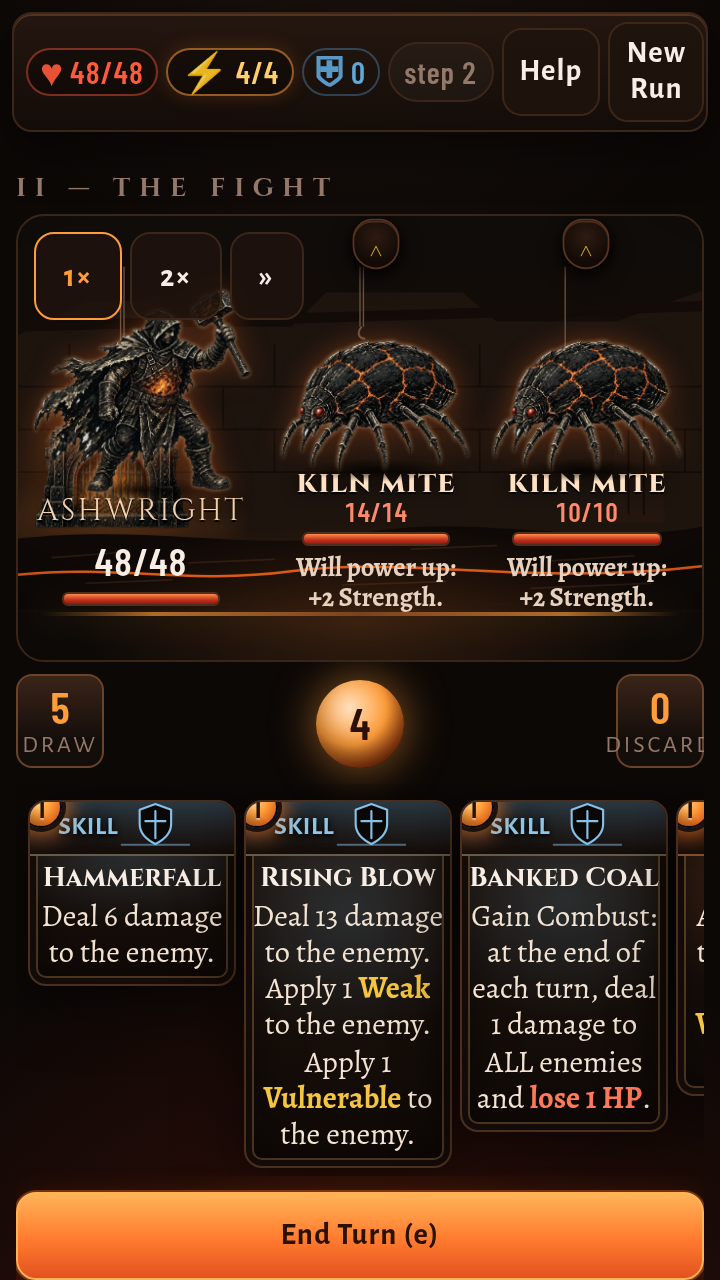
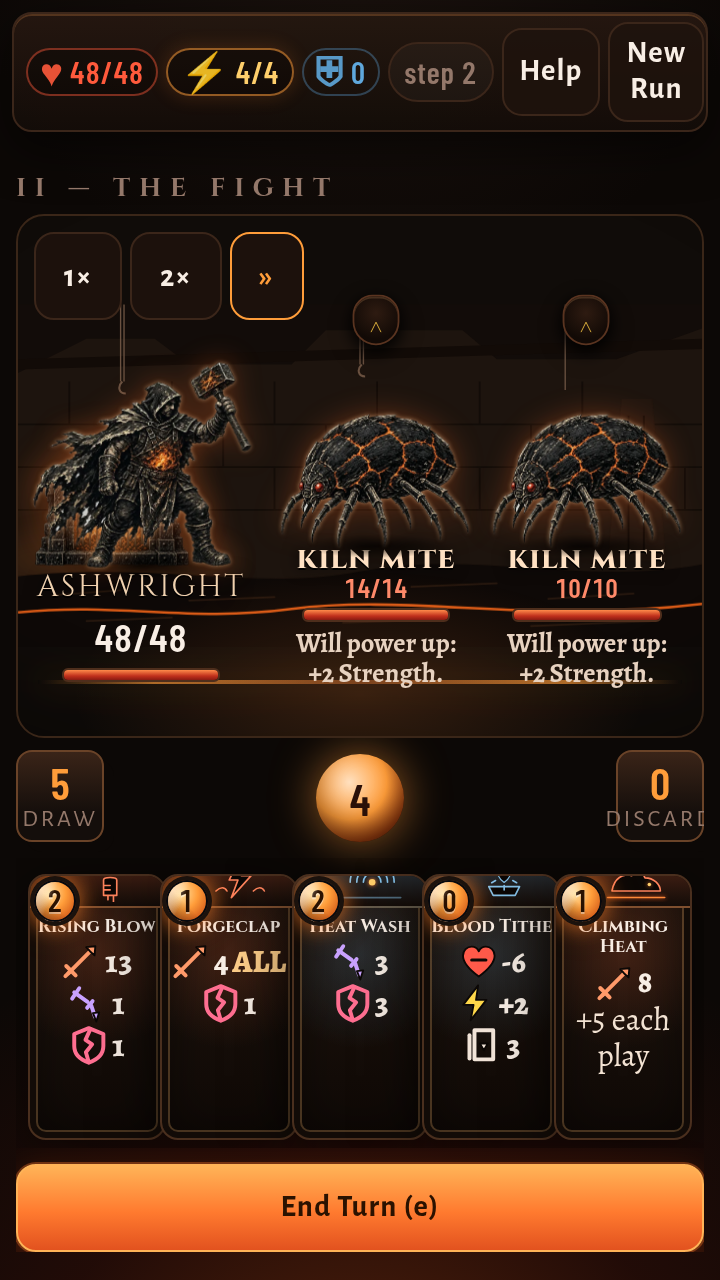
PR shots for #53 (glyph card face)

diff --git a/pr29/card-glyph-mapping.md b/pr29/card-glyph-mapping.md
@@ -1,0 +1,54 @@
+# #53 card face: glyph mapping (all 44 cards)
+
+What each glyph stands for: `damage` = sword, `block` = shield, `weak` = Weak (snapped blade), `vulnerable` = Vuln (cracked shield), `strength` = Strength (fist), `metallicize` = Metallicize (riveted plate), `draw` = card, `energy` = bolt, `hp` = heart, `discard` = card-away, `exhaust` = flame. `ALL` means every enemy is hit. A plain-text face line is a unique mechanic.
+
+Line counts are measured in a real browser by scripts/dev/viewport-check.mjs, at 360x640 and 320x568, both with 130% text. The limit is 3 lines; 4 lines at 320 is a fallback only.
+
+| id | name | full sentence (aria-label, preview) | face lines | lines @360x640·130% | lines @320x568·130% |
+|---|---|---|---|---|---|
+| strike | Hammerfall | Deal 6 damage to the enemy. | [damage] 6 | 1 | 1 |
+| defend | Quench | Gain 5 Block. | [block] 5 | 1 | 1 |
+| bash | Anvil Blow | Deal 8 damage to the enemy. Apply 2 Vulnerable to the enemy — it takes 50% more damage from attacks. | [damage] 8 / [vulnerable] 2 | 2 | 2 |
+| gust | Bellows Gust | Deal 4 damage to ALL enemies. | [damage] 4 ALL | 1 | 1 |
+| fan_flames | Fan the Flames | Gain 1 Energy. Exhaust this card for the rest of the fight. | [energy] +1 / [exhaust]  | 2 | 2 |
+| anger | Spark | Deal 5 damage to the enemy. | [damage] 5 | 1 | 1 |
+| cleave | Arc Cut | Deal 4 damage to ALL enemies. | [damage] 4 ALL | 1 | 1 |
+| clothesline | Collar Check | Deal 12 damage to the enemy. Apply 2 Weak to the enemy — its attacks deal 25% less damage. | [damage] 12 / [weak] 2 | 2 | 2 |
+| headbutt | Brow Strike | Deal 9 damage to the enemy. | [damage] 9 | 1 | 1 |
+| ironwave | Slag Surge | Gain 5 Block. Deal 5 damage to the enemy. | [block] 5 / [damage] 5 | 2 | 2 |
+| pommel | Haft Jab | Deal 9 damage to the enemy. Draw 1 card. | [damage] 9 / [draw] 1 | 2 | 2 |
+| sword_boomerang | Returning Brand | Deal 3 damage to ALL enemies. | [damage] 3 ALL | 1 | 1 |
+| thunderclap | Forgeclap | Deal 4 damage to ALL enemies. Apply 1 Vulnerable to the enemy — it takes 50% more damage from attacks. | [damage] 4 ALL / [vulnerable] 1 | 2 | 2 |
+| twin_strike | Twin Hammers | Deal 5 damage to the enemy 2 times. | [damage] 5×2 | 1 | 1 |
+| wild_strike | Untempered | Deal 12 damage to the enemy. | [damage] 12 | 1 | 1 |
+| flex | Bellows | Gain 2 Strength — your attacks deal 2 more damage. | [strength] 2 | 1 | 1 |
+| shrug | Cast Aside | Gain 8 Block. Draw 1 card. | [block] 8 / [draw] 1 | 2 | 2 |
+| true_grit | True Temper | Gain 7 Block. | [block] 7 | 1 | 1 |
+| warcry | Kiln Cry | Draw 1 card. Discard 1 card at random. | [draw] 1 / [discard] 1 | 2 | 2 |
+| armaments | Fit the Plate | Gain 5 Block. | [block] 5 | 1 | 1 |
+| havoc | Vent | Draw 1 card. Gain 1 Energy. | [draw] 1 / [energy] +1 | 2 | 2 |
+| battle_trance | Heat Trance | Draw 3 cards. | [draw] 3 | 1 | 1 |
+| bloodletting | Vein Tap | Lose 3 HP. Gain 2 Energy. | [hp] -3 / [energy] +2 | 2 | 2 |
+| carnage | Sunder | Deal 20 damage to the enemy. | [damage] 20 | 1 | 1 |
+| combust | Banked Coal | Gain Combust: at the end of each turn, deal 1 damage to ALL enemies and lose 1 HP. | [damage] 1 ALL / [hp] -1 / "each turn" | 3 | 4 |
+| dark_embrace | Ash Embrace | Gain Dark Embrace: whenever a card is exhausted, draw 1 card. | [exhaust] → / [draw] +1 | 2 | 2 |
+| dropkick | Heel Drop | Deal 5 damage to the enemy. Gain 1 Energy. | [damage] 5 / [energy] +1 | 2 | 2 |
+| entrench | Brace | Double your current Block. Does nothing if you have no Block. | [block] ×2 | 1 | 1 |
+| feel_no_pain | Cinder Skin | Gain Feel No Pain: whenever a card is exhausted, gain 1 Block. | [exhaust] → / [block] +1 | 2 | 2 |
+| flame_barrier | Flame Ward | Gain 12 Block. | [block] 12 | 1 | 1 |
+| ghostly_armor | Cinder Shroud | Gain 10 Block. | [block] 10 | 1 | 1 |
+| hemokinesis | Blood Hammer | Lose 2 HP. Deal 15 damage. | [damage] 15 / [hp] -2 | 2 | 2 |
+| inflame | Stoke | Gain 2 Strength — your attacks deal 2 more damage. | [strength] 2 | 1 | 1 |
+| metallicize | Scale Up | Gain 3 Metallicize — gain 3 Block at the end of each turn. | [metallicize] 3 | 1 | 1 |
+| pummel | Hail of Blows | Deal 2 damage to the enemy 4 times. Exhaust this card for the rest of the fight. | [damage] 2×4 / [exhaust]  | 2 | 2 |
+| rampage | Climbing Heat | Deal 8 damage. This card gains +5 damage permanently each time you play it. | [damage] 8 / "+5 each play" | 3 | 3 |
+| rupture | Split Seam | Gain Rupture: whenever a card makes you lose HP, gain 1 Strength. | "HP lost:" / [strength] +1 | 2 | 2 |
+| shockwave | Heat Wash | Apply 3 Weak to the enemy — its attacks deal 25% less damage. Apply 3 Vulnerable to the enemy — it takes 50% more damage from attacks. | [weak] 3 / [vulnerable] 3 | 2 | 2 |
+| uppercut | Rising Blow | Deal 13 damage to the enemy. Apply 1 Weak to the enemy — its attacks deal 25% less damage. Apply 1 Vulnerable to the enemy — it takes 50% more damage from attacks. | [damage] 13 / [weak] 1 / [vulnerable] 1 | 3 | 3 |
+| bludgeon | Maul | Deal 32 damage to the enemy. | [damage] 32 | 1 | 1 |
+| impervious | Unbroken | Gain 30 Block. Exhaust this card for the rest of the fight. | [block] 30 / [exhaust]  | 2 | 2 |
+| limit_break | Overtemper | Double your current Strength. Does nothing if you have no Strength. | [strength] ×2 | 1 | 1 |
+| offering | Blood Tithe | Lose 6 HP. Gain 2 Energy. Draw 3 cards. | [hp] -6 / [energy] +2 / [draw] 3 | 3 | 3 |
+| reaper | Ash Harvest | Deal 4 damage to ALL enemies. Heal HP equal to the damage dealt. | [damage] 4 ALL / "Heal that much" | 3 | 3 |
+
+Over 3 lines at 320x568·130% (uses the 4-line fallback): combust. Over 3 lines at 360x640·130%: none.
